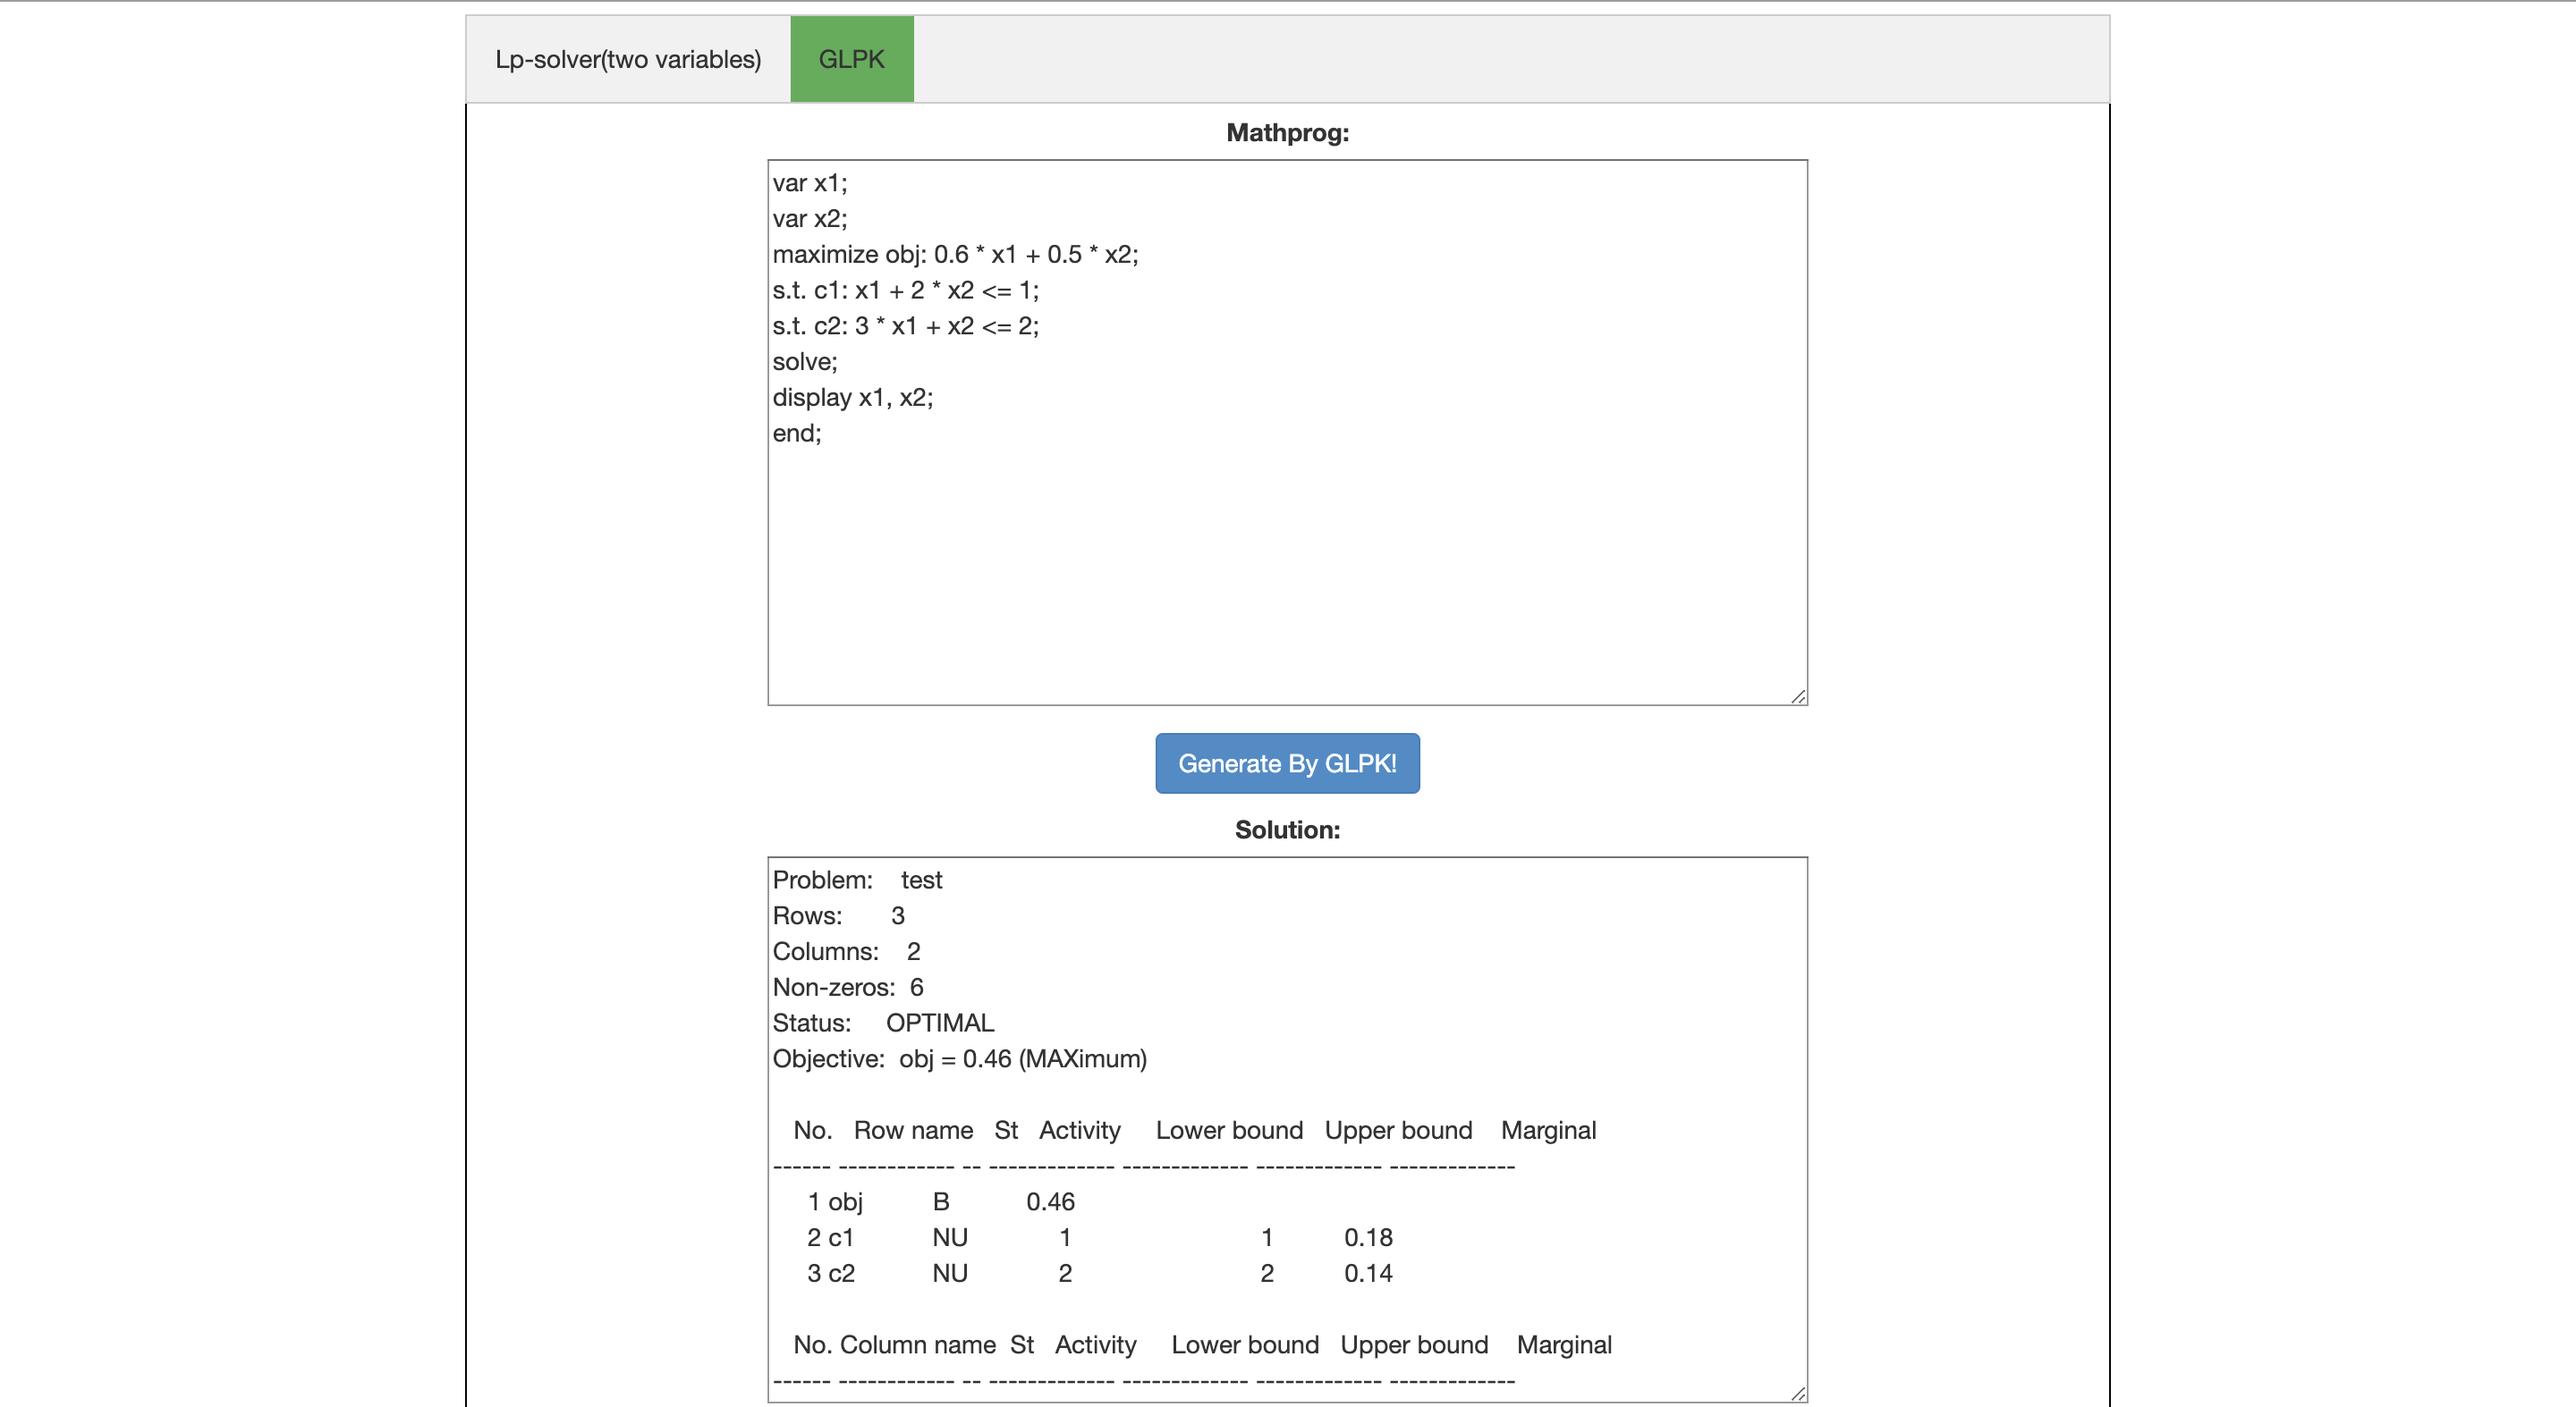
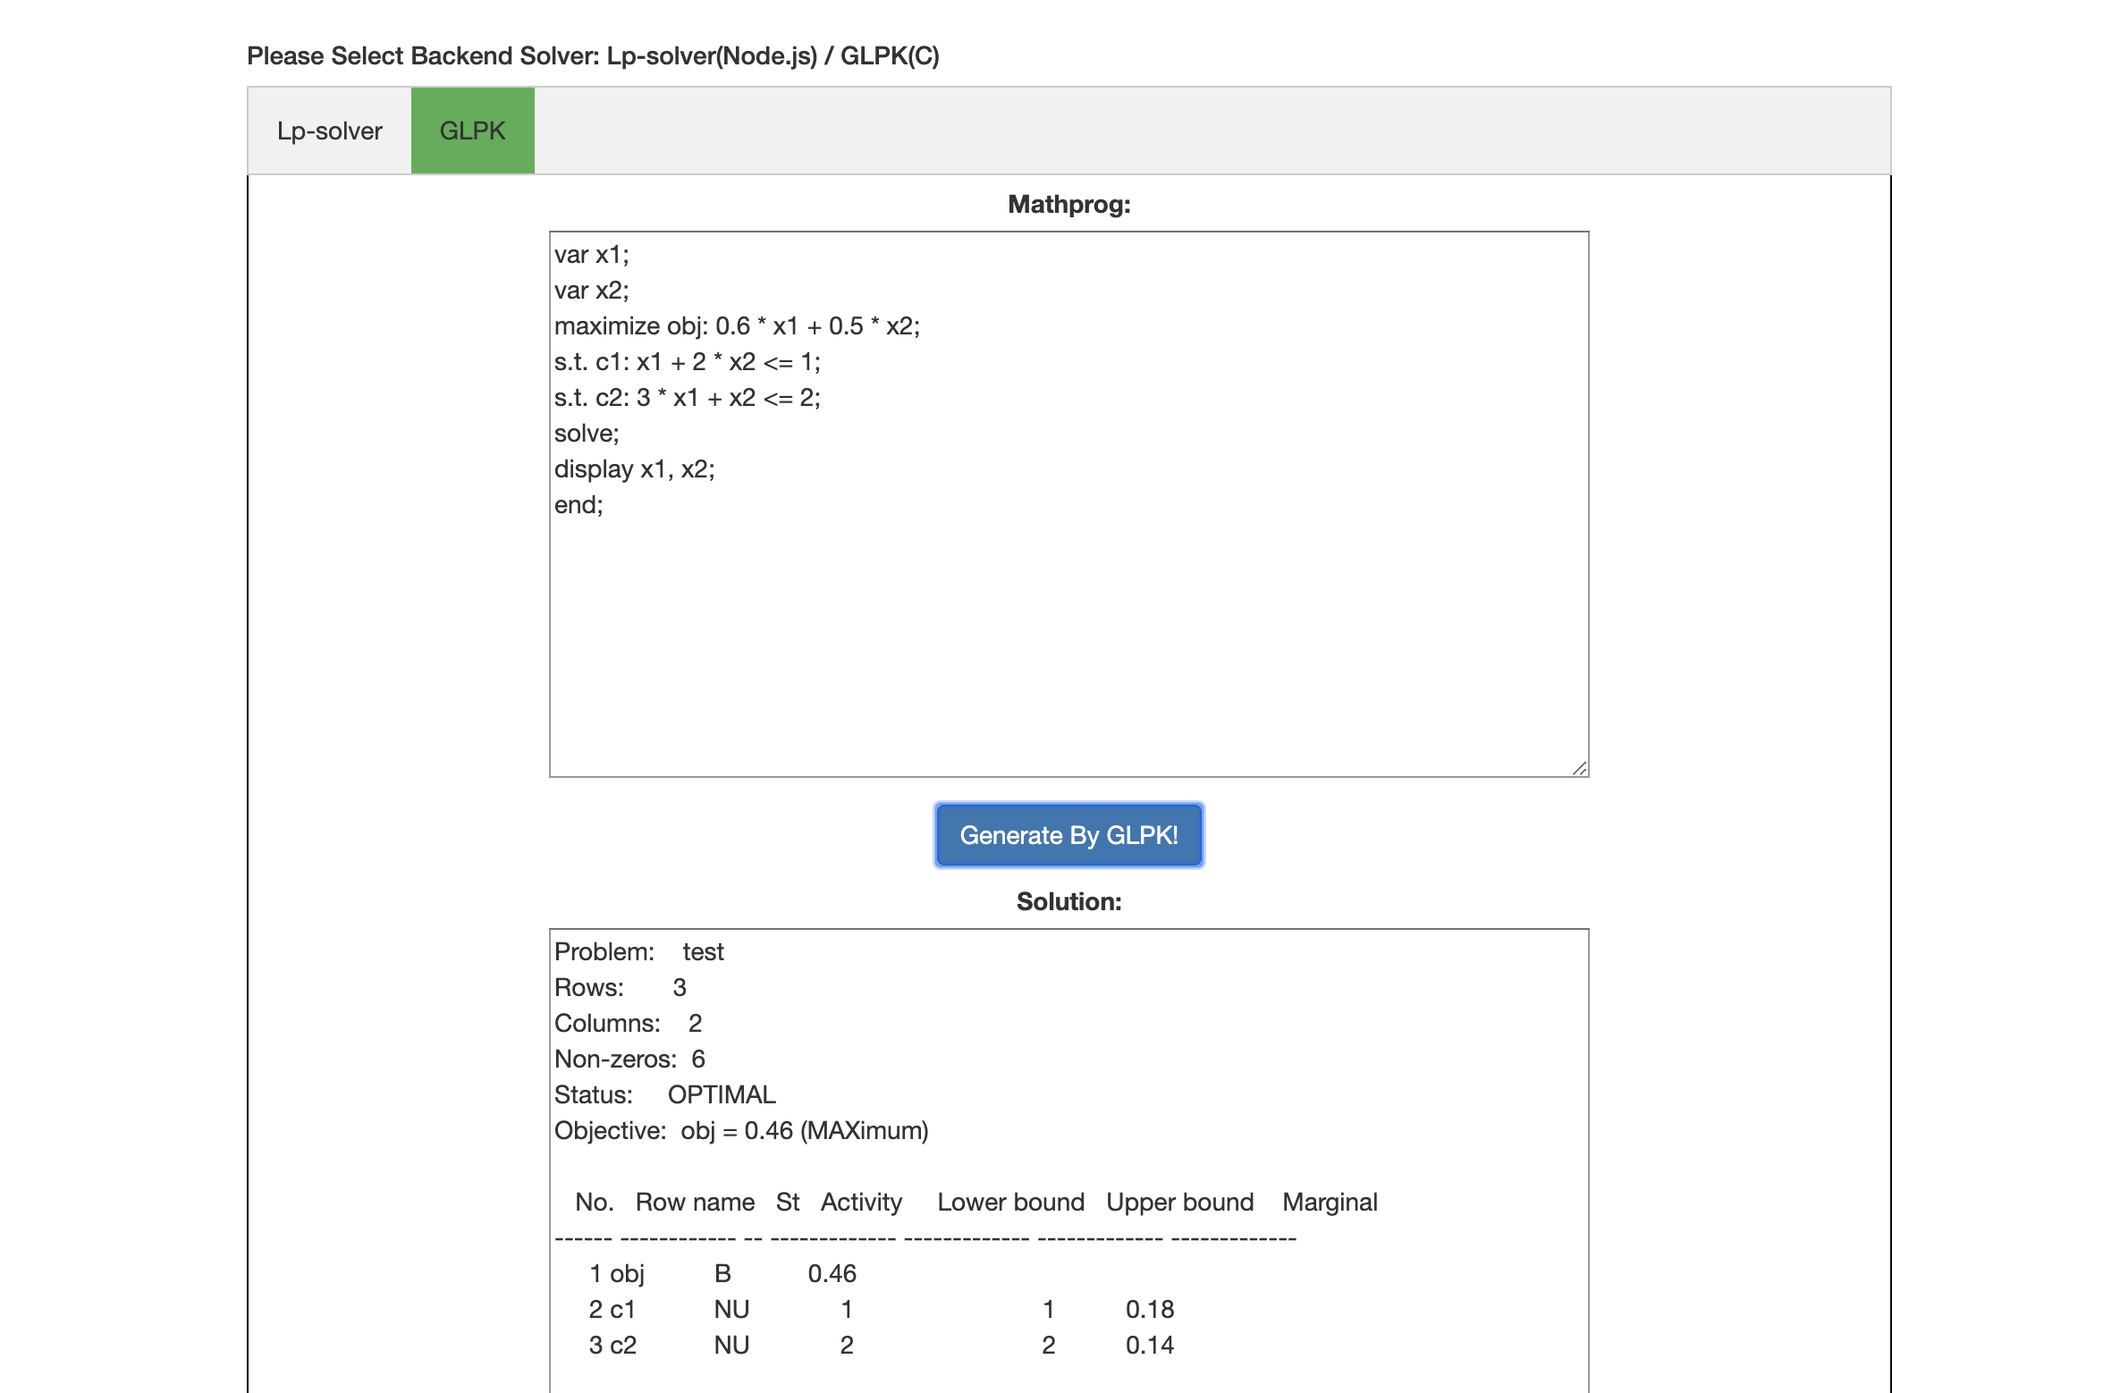
update comment and readme

diff --git a/frontend/public/index.html b/frontend/public/index.html
@@ -71,7 +71,7 @@
 
       <h5 style="text-align: left;">Please Select Backend Solver: Lp-solver(Node.js) / GLPK(C)</h5>
       <div class="tab" style="margin-left: 200px;margin-inline-start: auto;">
-        <button class="tablinks" onclick="openLP(event, 'Lp-solver')">Lp-solver(two variables)</button>
+        <button class="tablinks" onclick="openLP(event, 'Lp-solver')">Lp-solver</button>
         <button class="tablinks" onclick="openLP(event, 'GLPK')">GLPK</button>
       </div>
       <div id="Lp-solver" class="tabcontent">

diff --git a/README.md b/README.md
@@ -1,5 +1,5 @@
 # LinearProgram_Solver
-An Everything Website for linear programming with 2 sources: LP-solver and GLPK.
+A compact and simple website for linear programming with 2 sources: LP-solver and GLPK.
 
 Designed by 3 USC EE students.
 
@@ -8,22 +8,22 @@ A technique for the optimization of a linear objective function, subject to line
 ![LP-example](/LP_example.png)
 ## Highlighted features
 
-* Implement the backend by solving linear programs in two different sources: javescript-lp-solver and GLPK
+* Two different sources: javescript-lp-solver and GLPK
 * Develop frontend webpages by bootstrap4, html, css, containing ellipse, tab and IO user interfaces
 * Relying on Javscript-LP-sovler to generate solution, using Express library to send HTTP Get request from frontend to backend, by parsing input into a JSON
 * Generate dynamic input for LP-solver webpage, which enables users to choose up to 4 variables for a linear program
 * Wrapped GLPK, a GNU based library, into Node.js backend, and use Express library to send HTTP Post request via async function 
-* Save input written in Mathprog, a linear programming language, and solution as text files in backend, then send back to the frontend
+* Save input written in Mathprog, a linear programming language
 * Block Generate Button after a single click, to prevent multi-sending request to backend when it's working.
 * Send daily webpage usage email to webpage admin, in order to fully monitor the website
 ![Screenshot1](/screenshot1.png)
 Input for GLPK
 
 ![Screenshot2](/screenshot2.png)
-Input for LP-solver, 2 variables
+Input for LP-solver, 2 variables, 3 constraints
 
 ![Screenshot3](/screenshot3.png)
-Input for LP-solver, 4 variables
+Input for LP-solver, 4 variables, 2 constraints
 
 ![Screenshot4](/daily_email.png)
 Daily report for webpage users
@@ -33,7 +33,14 @@ Daily report for webpage users
 * Backend: Node.js
 * Libraries: express, javascript-lp-solver, GLPK, morgan, nodemailer, fs, shelljs, body-parser
 ## Overview of implementation
-
+### Frontend
+* Jquery library: Create append and delete functions to dynamicaly allocate input field.
+* ShowDiv function to hide and reveal the number of variables selected by the user
+* Bootstrap and Javascript: generate collepse and tab for webpage
+### Backend
+* Express Library: HTTP Get Request to listen input_json from localhost:3000, return output to frontend
+* Express Library: HTTP Post Request to receive MathProg, save as text file and call GLPK using shell.js, then return output file to frontend
+* Daily user Statistic: use global variables to collect daily number of users, send email to host by nodemailer
 ## Group members
 Wenhao Cui: wenhaocu@usc.edu <br>
 Tieming Sun: tiemings@usc.edu <br>
@@ -67,5 +74,5 @@ node app.js
 ```
 Last, open your browser to enjoy this website! http://localhost:3000
 ## Future work
-* Add online database for users' log-in / log-out to check Linear Programming function history
+* Add online database for user log-in / log-out to check Linear Programming function history
 * Deploy the website on [Heroku](https://www.heroku.com/) server
